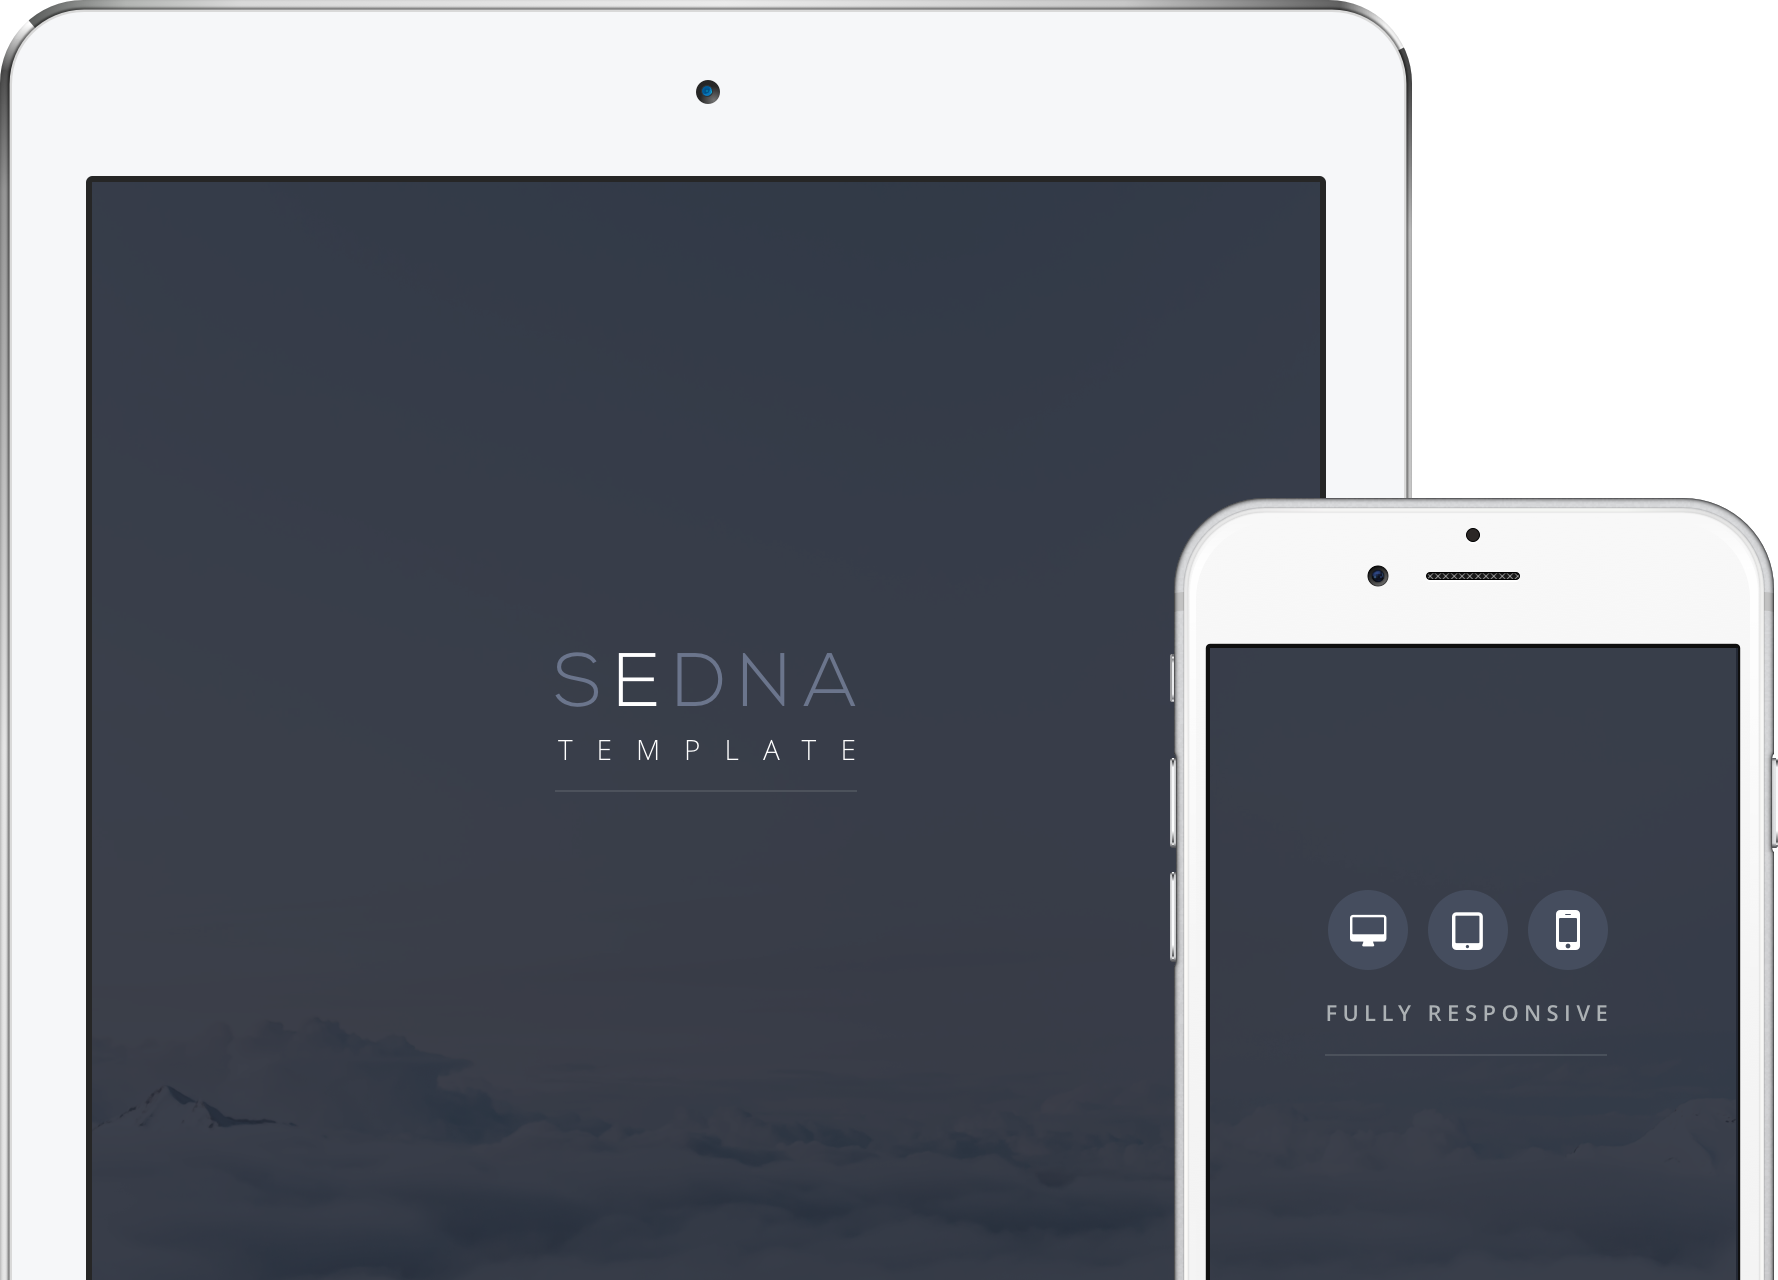
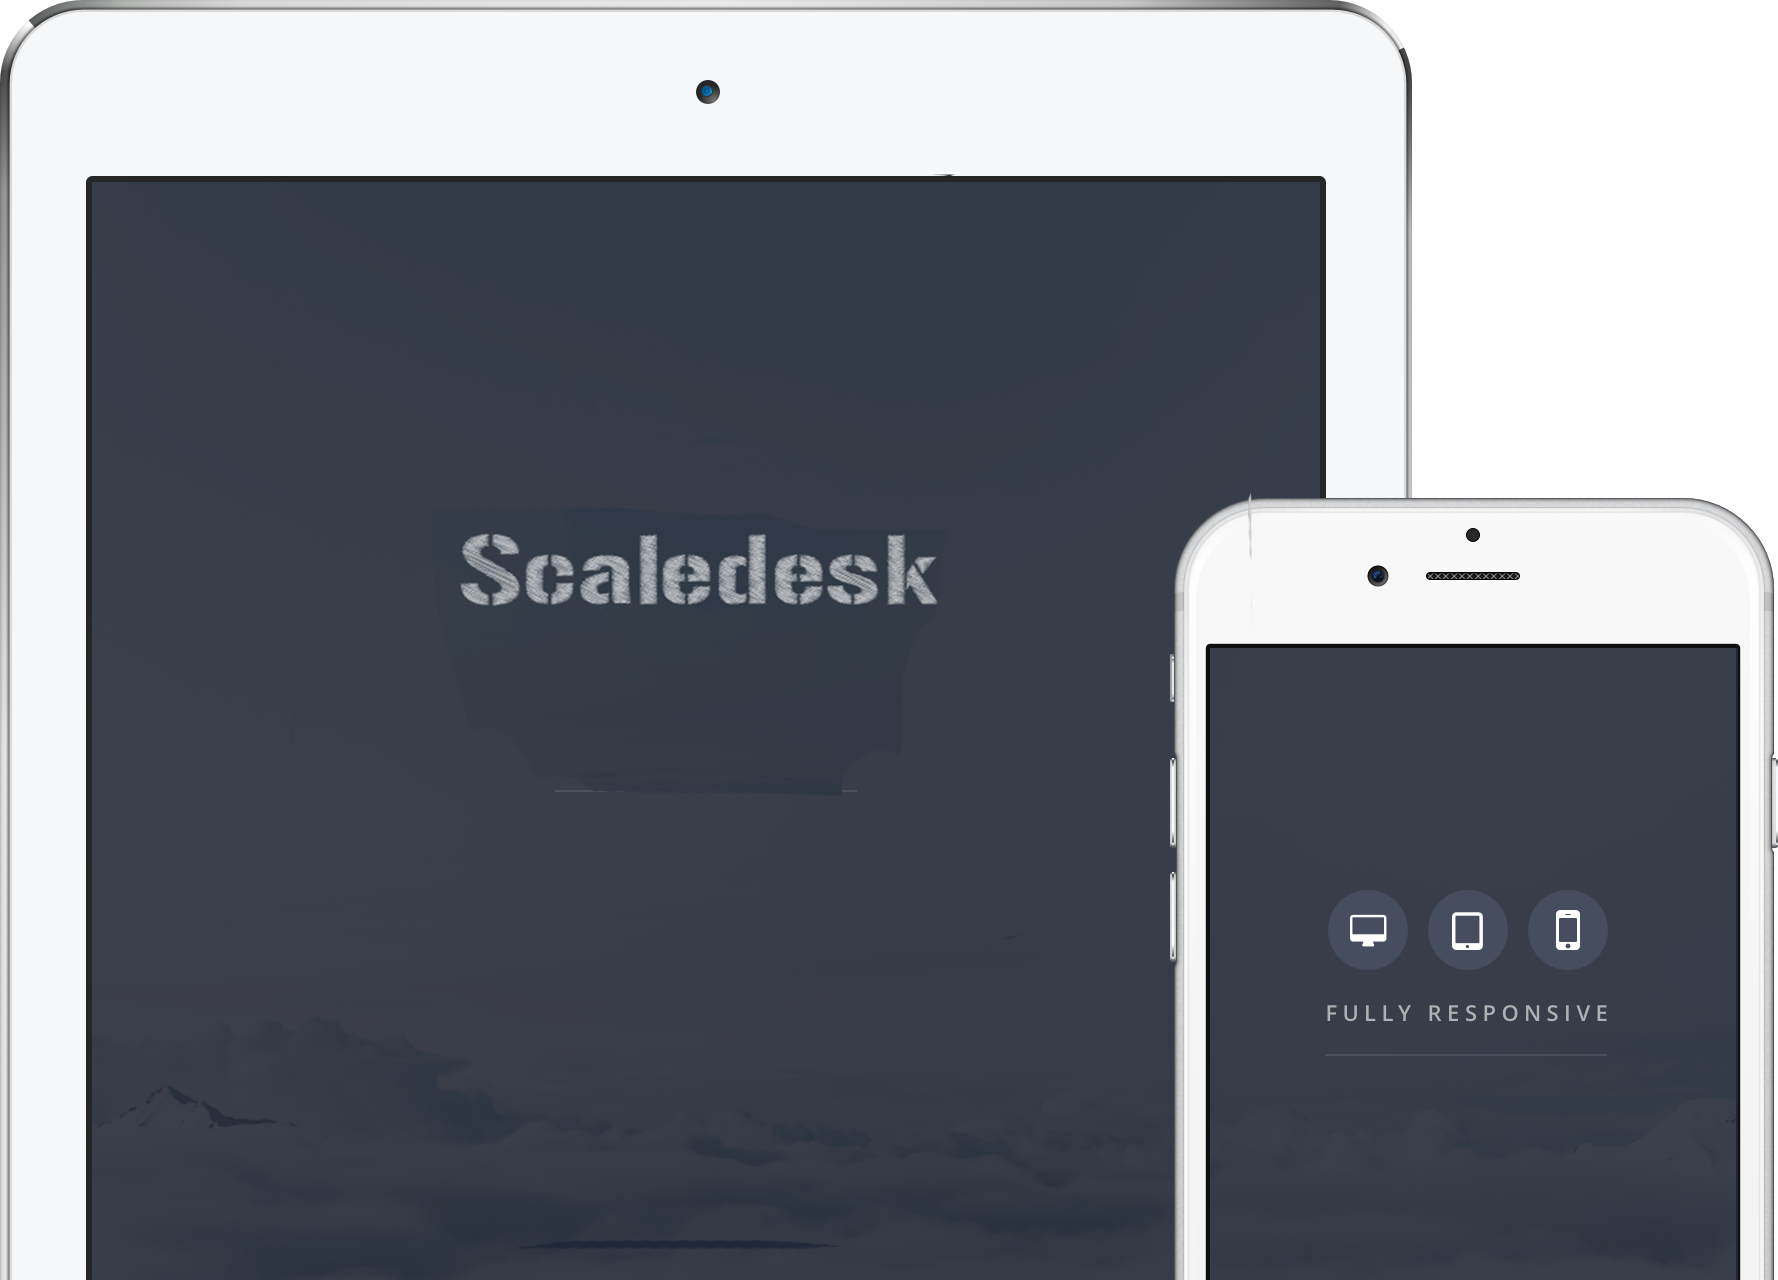
images ,responsiveness

Changed region(s): [[0.2475, 0.4062, 0.5259, 0.4688], [0.3093, 0.5, 0.4331, 0.5625], [0.4331, 0.5312, 0.464, 0.5625]]

diff --git a/css/styles.css b/css/styles.css
@@ -1242,3 +1242,14 @@ h1{
     border-bottom: 2px solid #ccc;
     border-top: 2px solid #ccc;
 }
+
+
+
+ .sign-up .signup-form .form-input-group i.fa-user {
+    font-size: 14px;
+    position: absolute;
+    top: 50%;
+    -webkit-transform: translateY(-50%);
+        -ms-transform: translateY(-50%);
+            transform: translateY(-50%);
+    margin-left: 20px; }

diff --git a/index.php b/index.php
@@ -12,6 +12,7 @@
     
     <meta name="google-site-verification" content="04CML_6VuH3tmmi_hzOlVCxKlZyRNDNgv58dm3hNVXM" />
     
+    
     <meta name="description" content="We are Scaldesk Webstudio 
     - We help startups Start-Up. We are a small team of dedicated web enthusiasts that believe in the power of internet and great ideas.">
     
@@ -208,7 +209,7 @@
                 <div class="iphone-wrap wp2"></div>
             </div>
         </div>
-        <div class="responsive-feature-img"><img src="img/devices.png" alt="responsive devices"></div>
+        <div class="responsive-feature-img"><img src="img/devices.jpg" alt="responsive devices"></div>
     </section>
     <section class="features-extra section-padding" id="description">
         <div class="container">
@@ -603,7 +604,7 @@
              </h5>
              
               <h5>
-            <i style="font-size:17px;" class="fa fa-mobile"></i>&nbsp;&nbsp; Mobile : +91 8650265445
+            <i style="font-size:16px;font-weight:600;" class="fa fa-mobile"></i>&nbsp;&nbsp; Mobile : +91 8650265445
              </h5>
              
 <!--
